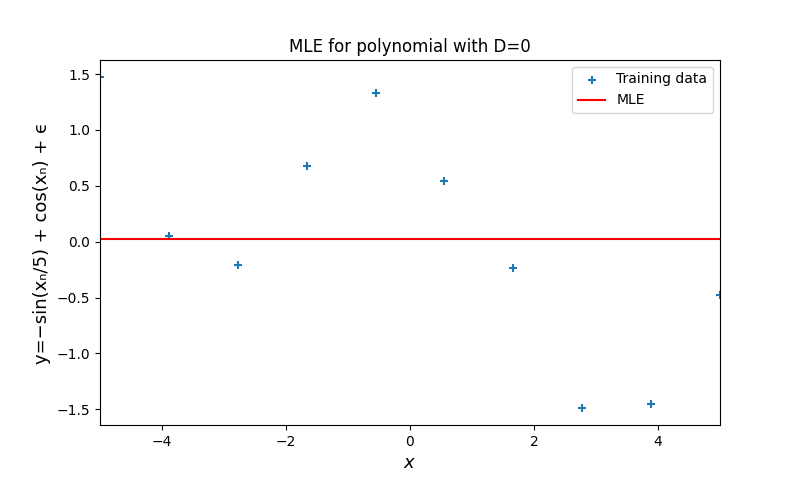
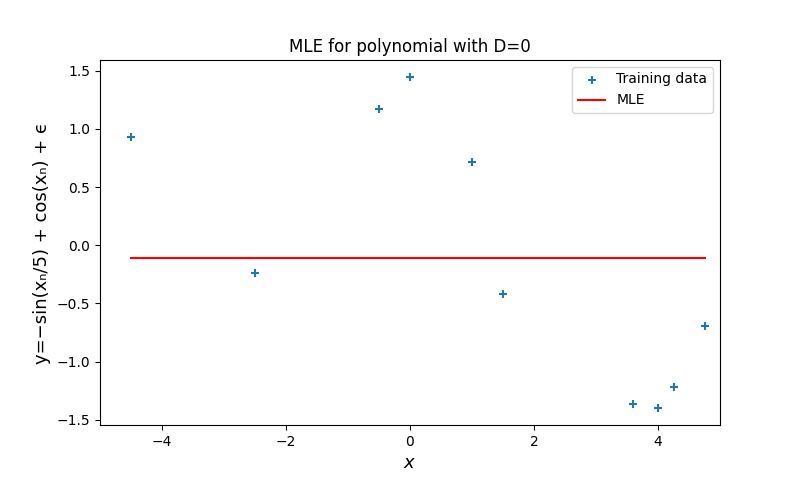
plot rmse

diff --git a/polynomial_mle.py b/polynomial_mle.py
@@ -11,11 +11,12 @@ np.random.seed(0)
 
 
 def generate_data() -> tuple[np.ndarray]:
-    X = np.linspace(-5, 5, num=10)
-    gaussian_noise = np.random.normal(0, 0.2, size=(10,))
+    X = np.array([-4.5, -2.5, -0.5, 0, 1, 1.5, 3.6, 4, 4.25, 4.75])
+    #X = np.linspace(-5, 5, num=10)
+    gaussian_noise = np.random.normal(0, 0.2, size=(X.shape[0],))
     Y = np.array([-math.sin(x / 5) + math.cos(x) for x in X]) + gaussian_noise
 
-    X_test = np.linspace(-5, 5, num=100)
+    X_test = np.linspace(-5, 5, num=200)
     X_test = X_test[~np.isin(X_test, X)]
     test_gaussian_noise = np.random.normal(0, 0.2, size=(X_test.shape[0],))
     Y_test = (
@@ -54,14 +55,14 @@ def main() -> None:
     train_data, test_data = generate_data()
     X, Y = train_data
     X_test, Y_test = test_data
-    rmse_train = []
-    rmse_test = []
-    for degree in range(11):
+    train_rmse = []
+    test_rmse = []
+    for degree in range(10):
         theta, train_prediction = compute_parameters_and_predict(X, Y, degree)
-        rmse_train.append(
+        train_rmse.append(
             calculate_rmse(Y, np.dot(get_polynomial_input(X, degree), theta))
         )
-        rmse_test.append(
+        test_rmse.append(
             calculate_rmse(Y_test, np.dot(get_polynomial_input(X_test, degree), theta))
         )
         plot_data.plot_actual_and_predicted(
@@ -71,6 +72,8 @@ def main() -> None:
             f"plots/polynomial_mle_{degree}.png",
             f"MLE for polynomial with D={degree}",
         )
+    
+    plot_data.plot_rmse(train_rmse, test_rmse)
 
 
 if __name__ == "__main__":

diff --git a/plot_data.py b/plot_data.py
@@ -19,3 +19,23 @@ def plot_actual_and_predicted(
     plt.legend(loc=1)
     fig.subplots_adjust(bottom=0.15)
     plt.savefig(file_name)
+
+
+def plot_rmse(train_rmse: list, test_rmse: list) -> None:
+    fig = plt.figure(figsize=(12, 5))
+    X = range(0, len(train_rmse))
+
+    # training RMSE plot
+    plt.plot(X, train_rmse, label="Training Error", color="green")
+
+    # test RMSE plot
+    plt.plot(X, test_rmse, label="Test Error", color="red")
+
+    plt.xlim([0, 10])
+    plt.ylim([0, 20])
+    plt.xlabel("Degree of Polynomial", fontsize=13)
+    plt.ylabel("RMSE", fontsize=13)
+    plt.title("RMSE with polynomial degree")
+    plt.legend(loc=1)
+    fig.subplots_adjust(bottom=0.15)
+    plt.savefig("plots/rmse.png")
